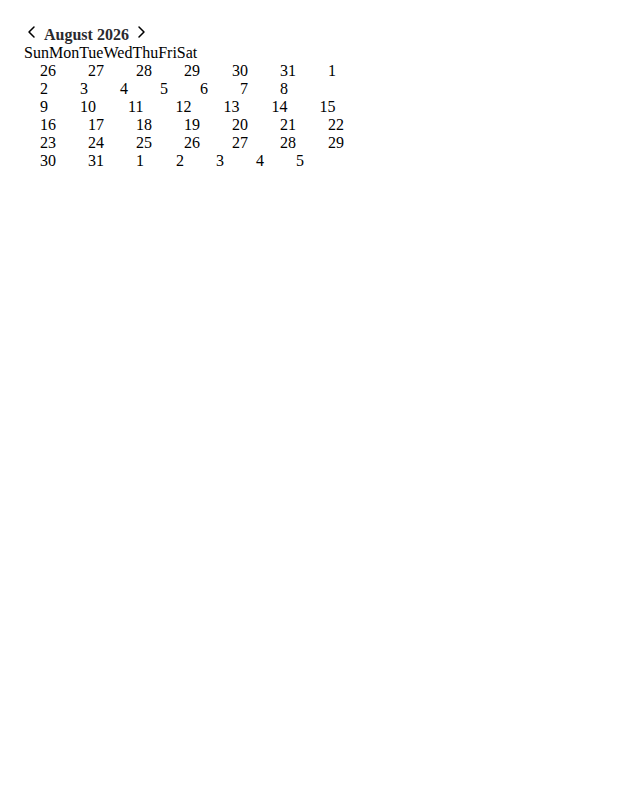
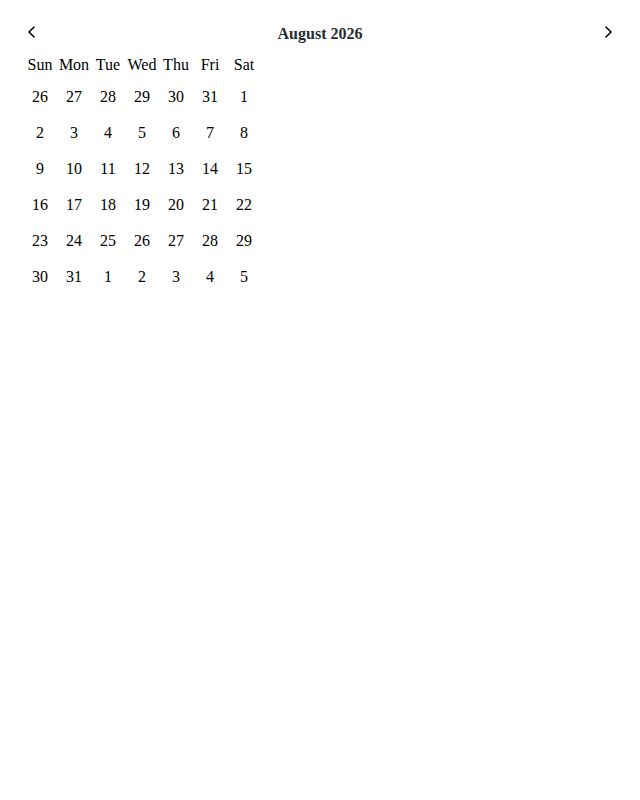
fix(helix): fix five more base examples, and unbar the rail
Stat had no parts at all, so nothing was written for it and three readings came
out crushed together with their labels riding above them. Sparkline's svg fills
whatever contains it and the host had no height, so two glances took the whole
frame and read as area charts. Blockquote ran its quotation into its attribution
as one paragraph, with nothing saying where one stopped.

Date Picker is the one worth reading twice: the weekday headings ran together as
SunMonTueWedThuFriSat and the numbers fell wherever the flow put them, so a month
was a paragraph of digits. Seven columns, and the week is `display: contents` so
its days are the grid's items, which is the same shape Table needed.

Timeline is better and is not finished. Its rail matched a branch that paints a
bar, so the line arriving at each entry was a wide grey stripe across the entry
above it; undressed, the marks are visible and the connector is a line again. The
two-column layout still is not taking, which points at the parts sitting inside a
wrapper the host cannot lay out, and that is a look at the shadow structure
rather than another rule guessed from outside.

diff --git a/helix/web/src/timeline/.examples/base.css b/helix/web/src/timeline/.examples/base.css
@@ -64,41 +64,37 @@ helix-base-icon::part(svg) {
   inline-size: 1em;
 }
 
-/* Rail then content, side by side. Without a row the marker lands
-   wherever the text ends, which is the right-hand edge. */
 helix-base-timeline-item {
   display: grid;
-  gap: 0.5rem;
+  gap: 0 0.75rem;
   grid-template-columns: auto 1fr;
 }
 
-/* The rail runs down beside the entries, and the generic rule drew it
-   as a full-width bar across each one: measured 394 by 8, which is a band. */
 helix-base-timeline-item::part(rail) {
+  align-items: center;
   background-color: transparent;
   block-size: auto;
   display: flex;
   flex-direction: column;
+  gap: 0.25rem;
   inline-size: auto;
 }
 
 helix-base-timeline-item::part(connector) {
-  background-color: var(--_gray-fill);
+  background-color: var(--_gray-line);
   flex: 1;
   inline-size: 1px;
-  margin-inline: auto;
-  min-block-size: 0.75rem;
+  min-block-size: 1rem;
 }
 
-helix-base-timeline-item::part(marker) {
-  align-items: center;
+helix-base-timeline-item::part(content) {
   display: flex;
-  justify-content: center;
+  flex-direction: column;
+  gap: 0.125rem;
+  padding-block-end: 1rem;
 }
 
-helix-base-timeline-item::part(dot) {
-  background-color: var(--_gray-mark);
-  block-size: 0.5rem;
-  border-radius: 50%;
-  inline-size: 0.5rem;
+helix-base-timeline-item::part(time) {
+  color: var(--_gray-muted);
+  font-size: 0.875em;
 }

diff --git a/helix/web/src/drawer/root/drawer-root.css b/helix/web/src/drawer/root/drawer-root.css
@@ -281,7 +281,21 @@
 [part="content"] {
   flex: 1 1 auto;
   min-block-size: 0;
+  /* **Room for a focus ring, taken back the moment it is given.** Asking for
+     `overflow-y: auto` and nothing else makes this a horizontal clipper too:
+     CSS computes a `visible` axis to `auto` when the other one is not visible,
+     so a scroller nobody asked to scroll sideways still clips there. A child
+     filling the width then loses the left and right of its ring while keeping
+     the top and bottom, which reads as a drawing fault rather than as focus.
+     Measured on a full width button in this component: `outline` 2px at 2px
+     offset, and zero room either side of it.
+
+     The padding widens the scrollport by exactly what the ring reaches and the
+     negative margin puts the region back where it was, so nothing inside moves
+     and the content still lines up with the header above it. */
+  margin-inline: calc(var(--helix-size-focus-reach) * -1);
   overflow-y: auto;
+  padding-inline: var(--helix-size-focus-reach);
 }
 
 /* Both things that move, named one at a time so neither loses on specificity.

diff --git a/helix/web/src/date-picker/.examples/base.css b/helix/web/src/date-picker/.examples/base.css
@@ -89,3 +89,28 @@ helix-base-icon::part(svg) {
   flex: none;
   inline-size: 1em;
 }
+
+helix-base-date-picker::part(grid) {
+  display: grid;
+  gap: 0.125rem;
+  grid-template-columns: repeat(7, 2rem);
+}
+
+helix-base-date-picker::part(week) {
+  display: contents;
+}
+
+helix-base-date-picker::part(weekday),
+helix-base-date-picker::part(day) {
+  display: block;
+  padding: 0.25rem 0;
+  text-align: center;
+}
+
+helix-base-date-picker::part(header) {
+  align-items: center;
+  display: flex;
+  gap: 0.5rem;
+  justify-content: space-between;
+  padding-block-end: 0.5rem;
+}

diff --git a/helix/web/src/blockquote/.examples/base.css b/helix/web/src/blockquote/.examples/base.css
@@ -48,3 +48,16 @@ helix-base-icon::part(svg) {
   flex: none;
   inline-size: 1em;
 }
+
+helix-base-blockquote::part(blockquote) {
+  border-inline-start: 2px solid var(--_gray-line);
+  display: block;
+  margin: 0;
+  padding-inline-start: 0.75rem;
+}
+
+helix-base-blockquote::part(attribution) {
+  color: var(--_gray-muted);
+  display: block;
+  margin-block-start: 0.5rem;
+}

diff --git a/helix/web/src/sparkline/.examples/base.css b/helix/web/src/sparkline/.examples/base.css
@@ -58,6 +58,12 @@ helix-base-icon {
   inline-size: 1em;
 }
 
+helix-base-sparkline {
+  block-size: 3rem;
+  display: block;
+  inline-size: 12rem;
+}
+
 helix-base-sparkline::part(area) {
   fill: var(--chart-series, var(--chart-series-1));
   opacity: 0.25;

diff --git a/helix/web/src/stat/.examples/base.css b/helix/web/src/stat/.examples/base.css
@@ -43,6 +43,13 @@ helix-base-icon {
   inline-size: 1em;
 }
 
+helix-base-stat {
+  display: inline-flex;
+  flex-direction: column;
+  gap: 0.125rem;
+  margin-inline-end: 2rem;
+}
+
 helix-base-icon::part(svg) {
   block-size: 1em;
   flex: none;
